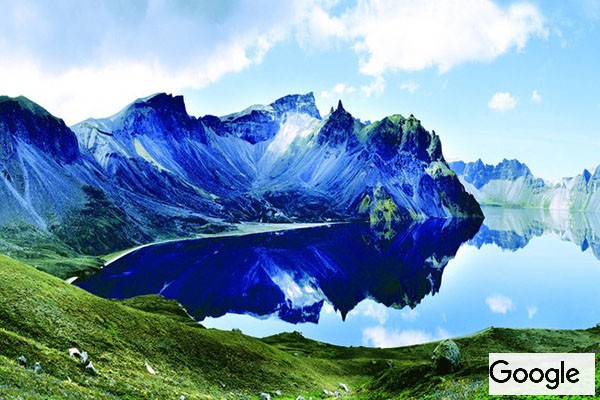
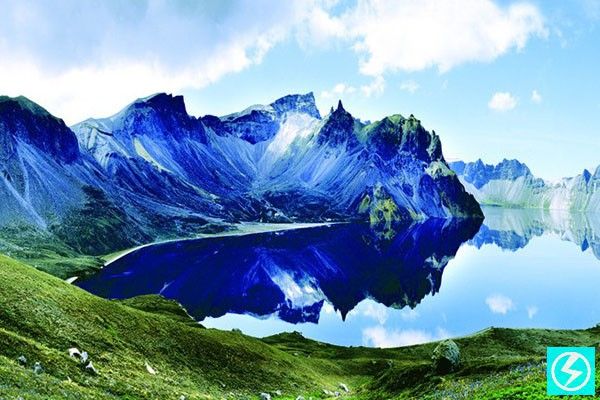
细节调整

Changed region(s): [[0.81, 0.84, 1.0, 0.99]]

diff --git a/zotop/themes/default/css/global.css b/zotop/themes/default/css/global.css
@@ -1,7 +1,6 @@
 /*! * zotop global v2.3.5 (http://zotop.com) * Copyright 2008-2015 zotop team. */
 h1, h2, h3, h4, h5, h6, .h1, .h2, .h3, .h4, .h5, .h6{line-height:1.5}
 
-
 .bg-default{background-color:#fff;}
 .bg-primary{background-color:#0072c6 !important;color:#ffffff !important;}
 .bg-info{background-color:#ffffff !important;}
@@ -262,10 +261,7 @@ figure.image figcaption{margin: 6px 1px 6px 1px;text-align: center;}
 .scroll-btn li:hover>.popover{display:block;opacity:1;white-space:nowrap;}
 
 body{font-family:"Helvetica Neue", Helvetica, Microsoft Yahei, Hiragino Sans GB, WenQuanYi Micro Hei, sans-serif;font-size:14px;line-height:150%;padding-top:50px;background-color:#f2f4f5;}
-body.site-index-index{padding-top:0;}
-body.site-index-index .navbar{background:transparent;}
-body.site-index-index .navbar-default:hover{background:#fff;}
-body.site-index-index .navbar-inverse:hover{background:#0072c6;}
+
 
 
 
@@ -290,8 +286,6 @@ body.site-index-index .navbar-inverse:hover{background:#0072c6;}
 	.nav-inline ul li a{display:block;font-size:15px;line-height:39px;margin:0;border-radius:2px;border:1px solid #dadada;}
 	.nav-inline ul li a:hover{color:#fff;background:#0072c6;border:1px solid #0072c6;}
 	.nav-inline ul li a.active{color:#fff;background:#0072c6;border:1px solid #0072c6;}
-
-	.navbar-inverse .navbar-collapse, .navbar-inverse .navbar-form{background:#0072c6;border:0;}
 
 	.navbar-form{margin-bottom:0}
 	.navbar-form .btn{top:11px;right:8px;}    

diff --git a/zotop/apps/system/config.php b/zotop/apps/system/config.php
@@ -28,9 +28,9 @@ return array(
 
 	// 图片最大设置
 	'image_resize'  => '1',
-	'image_width'   => '980',
-	'image_height'  => '600',
-	'image_quality' => '95',
+	'image_width'   => '1920',
+	'image_height'  => '800',
+	'image_quality' => '100',
 
 	// 水印设置
 	'watermark'          => '1',
@@ -39,7 +39,7 @@ return array(
 	'watermark_opacity'  => '90',
 	'watermark_image'    => 'watermark.png',
 	'watermark_position' => 'bottom right',
-	'watermark_quality'  => '90',
+	'watermark_quality'  => '100',
 
 	// 邮件设置，默认邮件功能为false，后台填写参数并验证通过后为true
 	'mail'               => false,
